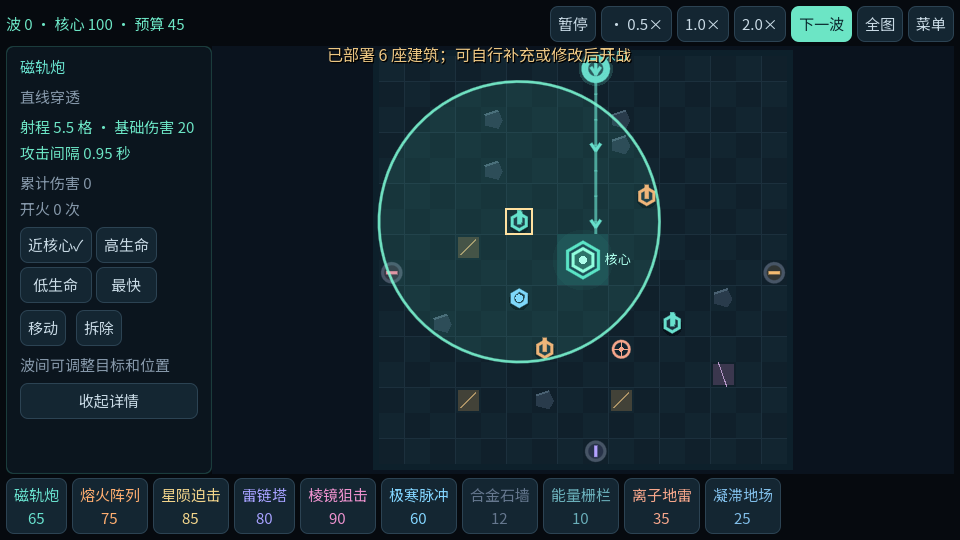
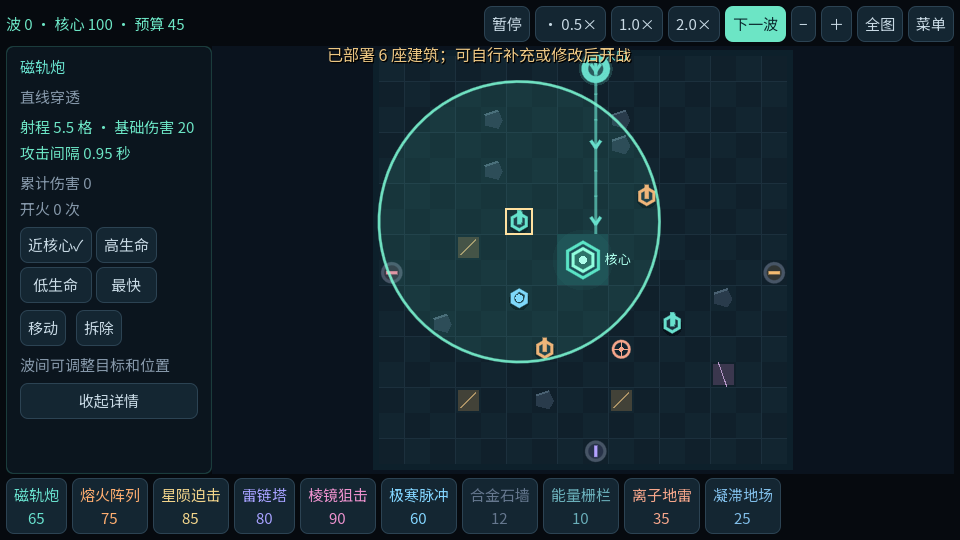
Optimize Android deployment and compact touch UI with manual zoom

diff --git a/docs/ANDROID.md b/docs/ANDROID.md
@@ -1,16 +1,16 @@
 # 最后核心 Android 离线版
 
-版本：0.3.0-offline，版本号 3。横屏、纯离线、本地存档。
+版本：0.4.0-offline，版本号 4。横屏、纯离线、本地存档。
 
 ## 安装与升级
 
-安装 `LastCore-Android-v0.3.0-offline.apk`。包名与旧版一致：`com.xizhi3002.lastcore`，沿用同一调试签名，可覆盖升级保留存档。不要先卸载旧版，卸载会删除存档。
+安装 `LastCore-Android-v0.4.0-offline.apk`。包名与旧版一致：`com.xizhi3002.lastcore`，沿用同一调试签名，可覆盖升级保留存档。不要先卸载旧版，卸载会删除存档。
 
 最低 Android 7.0（API 24），支持 ARM 32/64 位。此包仍为调试签名开发版，尚未上架商店。没有互联网权限、账号登录、在线排行榜或跨设备同步。
 
 ## 操作
 
-- 默认完整显示地图；顶栏和底栏缩小，左侧半透明面板展示建筑属性和操作。
+- 默认完整显示地图；顶栏和底栏缩小，左侧面板选中建筑或蓝图时展开，取消选择后折叠。战区与蓝图选择页均为一屏布局。
 - 顶栏“暂停/继续”随时可用。默认 **0.5 倍速**，可直接切换 1 倍、2 倍。
 - 蓝图可横向滚动。向上拖出蓝图进入战场，或轻点蓝图再轻点目标格；预览会显示射程、目标格和移动痕迹。
 - 左侧选择“确认放置”才扣预算，选择“取消”不产生任何建筑或扣费。无效地格标红且不能确认。
@@ -18,19 +18,25 @@
 - 石墙、栅栏、地雷和凝滞地场也遵循确认流程；不能封死任何入口。
 - 波间暂停仍可布阵。选择蓝图会进入编辑状态，停止自动开波倒计时，完成后点击“下一波”开始。
 - 战斗中暂停可以查看信息，但不能改变阵容。
-- 没有部署预览时，单指拖动平移；双指缩放。点击“全图”恢复完整地图。
-- 高亮当前/下一波出怪点和核心，沿路线移动的箭头指向核心；不显示下一波未启用入口的路线。
+- 通过“＋/−”或双指捏合手动缩放，不会因选择蓝图自动放大。全图状态固定视角；放大后单指拖动平移，边缘限制避免拖出地图。点击“全图”复位。
+- 高亮出怪点和核心。战斗中隐藏全部路线（暂停战斗时也隐藏），波间显示下一波实际出怪方向；波末清除攻击特效。
 - 系统返回键优先取消部署预览，然后关闭弹窗或打开菜单。切到后台自动保存并暂停。
 - 战斗中保存后重新打开会恢复到本波开始前；关闭游戏没有离线收入。
 
 ## 验证
 
-- 222 项核心检查通过，连续 60 波完成；10 项结算、存档和备份检查通过。
-- 35 项手机检查通过：真实视口跨控件拖放、预览不扣费、取消无副作用、确认只扣一次、禁止核心格放置、移动/拆除确认、暂停与波间编辑、五张地图完整显示。
+- 222 项核心检查通过，连续 60 波完成；160 项导航对照和 10 项结算、存档及备份检查通过。
+- 59 项手机检查通过：真实视口跨控件拖放、预览不扣费、取消无副作用、确认只扣一次、禁止核心格放置、移动/拆除确认、暂停与波间编辑、五张地图完整显示、单屏页面、折叠面板、全图锁定、放大拖动、战斗隐藏路线、波末清理。
 - 960×540 逻辑尺寸下实际渲染并检查战场、炮台详情、部署预览和最大地图。
 - APK 检查包名、版本、架构、权限和签名。
 
 当前没有连接真实安卓设备，以上触控检查是在桌面 Godot 视口派发触屏事件完成，尚未验证各机型的刘海、手势栏、发热和性能。
+
+## 性能优化
+
+拖动预览不再读取规则文件、复制整局存档或重建整块属性面板。路径搜索改为数字索引，缓存地格键与不受建筑影响的特殊路线。每帧不再重复生成波次队列。确认部署减少重复面板重建。
+
+同一 Windows 机器、最大地图的采样：预览中位耗时约 245 ms → 4.3 ms；确认放置（含保存）约 32–37 ms → 14–18 ms。这些是桌面测量，不能视作手机帧率或所有机型无卡顿的保证。
 
 ## 开发
 

diff --git a/README.md b/README.md
@@ -1,6 +1,6 @@
 # 最后核心 · LAST CORE
 
-Godot 4.5.2 制作的离线塔防游戏。Android 0.3.0 支持全图战场、暂停、拖放确认与炮台射程预览；所有进度和纪录保存在本机。
+Godot 4.5.2 制作的离线塔防游戏。Android 0.4.0 支持全图战场、暂停、拖放确认与炮台射程预览；所有进度和纪录保存在本机。
 
 ## 下载与预览
 
@@ -10,7 +10,7 @@ Windows 游戏包可在 [Releases](https://github.com/xizhi3002/last-core/releas
 
 ## 开始游戏
 
-现已增加 **Android 0.3.0 离线版**：支持横屏触控、单指拖动、双指缩放和后台自动保存暂停。安装与操作、构建方式及测试范围见 [Android 说明](docs/ANDROID.md)。Windows v0.1.0 下载仍保留在原版本发布中。
+现已增加 **Android 0.4.0 离线版**：支持横屏触控、单指拖动、双指缩放和后台自动保存暂停。安装与操作、构建方式及测试范围见 [Android 说明](docs/ANDROID.md)。Windows v0.1.0 下载仍保留在原版本发布中。
 
 双击发行目录的 `LastCore.exe`，无需安装 Godot，也不依赖联网。
 
@@ -60,6 +60,7 @@ godot --headless --path . --script res://tests/test_storage.gd -- --test
 godot --headless --path . --script res://tests/ui_smoke.gd -- --test
 godot --headless --path . --script res://tests/balance.gd
 godot --headless --path . --script res://tests/mobile_smoke.gd -- --mobile --test
+godot --headless --path . --script res://tests/test_navigation.gd
 ```
 
 Windows 导出：修改 `export_presets.cfg` 的 `custom_template/release` 为本机 4.5.2 的 Windows 模板，然后执行 `godot --headless --path . --export-release "Windows Desktop" build/LastCore.exe`。开发测试需要存在可写的 build 目录。
